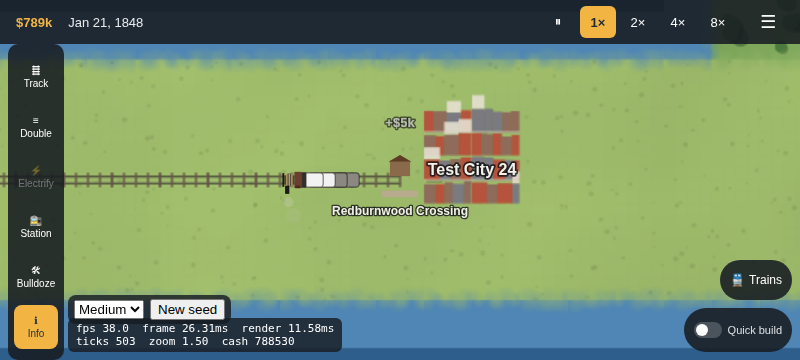
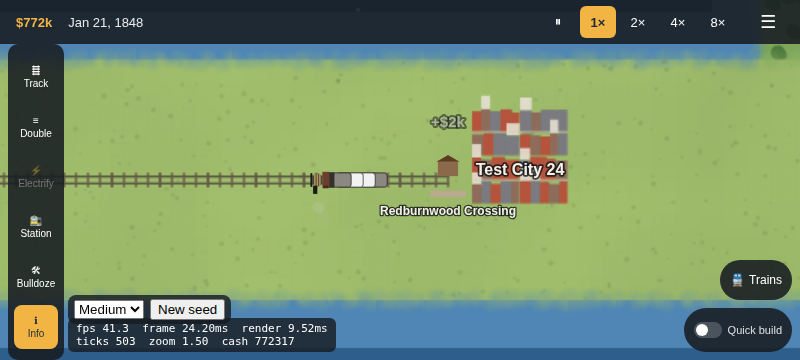
Phase 7.1: panel layout and delivery label fixes
Panel layout (index.html): `.panel` was the only scroll container, with `.panel-header` and
`.panel-actions` faking "pinned" via position:sticky. Sticky doesn't remove an element from the
document, so scrolled-past body rows could paint through/over the "pinned" header — confirmed
via the finance panel's "Credit limit" row landing on top of the "Finance" title after
scrollIntoView (docs/screenshots/phase-7-finance-panel.png). Fixed by making `.panel` a real flex
column: header and footer sit outside any scrollport, and only `.panel-body`
(flex:1, min-height:0, its own overflow-y) scrolls.

That surfaced a second, previously-latent bug: a flex item with non-visible overflow (e.g.
`.train-car-picker`'s own overflow-y:auto) has an automatic minimum size of 0 per the flexbox
spec, so once `.panel-body` became height-constrained, the browser shrank the car/loco/order
pickers to 0px to fit everything else — they were still "visible", just invisible. Fixed with a
blanket `.panel-body > * { flex-shrink: 0; }`.

Updated the two e2e specs that scrolled `.panel` directly (`el.scrollTop = ...`) for screenshot
framing to scroll `.panel-body` instead, since `.panel` itself no longer scrolls. Also bumped the
yearly report test's post-open wait from 100ms to 300ms — it was catching the panel mid-slide
(the 0.2s CSS transition), so ledger row values near the panel's right edge rendered off the
800px viewport in the screenshot; a real timing bug in the test, not the panel.
[…]

diff --git a/index.html b/index.html
@@ -152,12 +152,24 @@
         box-shadow: -4px 0 16px rgba(0, 0, 0, 0.35);
         transform: translateX(100%);
         transition: transform 0.2s ease;
-        overflow-y: auto;
         font: 13px sans-serif;
         /* Above the quick-build toggle (z-index 6), which otherwise floats over a panel's own
            bottom-right content (e.g. Station mode's in-panel Build/Cancel row) on a short
            viewport where the panel's content reaches near the screen bottom. */
         z-index: 10;
+        /* Fixed header + pinned footer, scrolling body (Phase 7.1 review fix): `.panel` is a flex
+           column so `.panel-header` and `.panel-actions` sit at their natural size outside any
+           scrollport, and only `.panel-body` (flex:1, min-height:0, its own overflow-y below)
+           scrolls. Previously `.panel` itself was the *only* scroll container and the header used
+           `position:sticky` to fake staying put — sticky doesn't remove an element from the
+           document, so scrolled-past body rows could still paint through/over the "pinned" header
+           (confirmed: e.g. the finance panel's "Credit limit" row landing visually on top of the
+           "Finance" title after `scrollIntoView`, docs/screenshots/phase-7-finance-panel.png).
+           Giving the header its own non-scrolling box makes that overlap structurally impossible
+           instead of relying on stacking order. */
+        display: flex;
+        flex-direction: column;
+        overflow: hidden;
       }
       .panel.panel-open {
         transform: translateX(0);
@@ -168,9 +180,8 @@
         justify-content: space-between;
         padding: 12px 14px;
         border-bottom: 1px solid rgba(255, 255, 255, 0.12);
-        position: sticky;
-        top: 0;
         background: inherit;
+        flex: 0 0 auto;
       }
       .panel-title {
         font-size: 16px;
@@ -186,16 +197,32 @@
         font-size: 14px;
       }
       .panel-body {
-        /* Extra bottom padding reserves room so the sticky `.panel-actions` bar (below) never
-           visually overlaps the last row(s) of content — sticky positioning clamps the bar to the
-           scrollport bottom even when total content is only barely taller than the panel, which
-           without this buffer could otherwise render the bar on top of the preceding row instead
-           of below it. 66px = .panel-actions' own rendered height (10px+12px padding + the 44px
-           button row) — keep this and its `margin-bottom` below in sync if that ever changes. */
+        /* The panel's only scrolling region now (see `.panel` above) — `flex:1` fills whatever
+           space `.panel-header`/`.panel-actions` don't take, `min-height:0` lets it actually
+           shrink below its content's natural height instead of overflowing the flex column. */
+        flex: 1 1 auto;
+        min-height: 0;
+        overflow-y: auto;
+        /* Extra bottom padding reserves room so the sticky `.panel-actions` bar (below, still
+           nested inside `.panel-body` by every caller) never visually overlaps the last row(s) of
+           content — sticky positioning clamps the bar to *this* scrollport's bottom even when
+           total content is only barely taller than the panel. 66px = .panel-actions' own rendered
+           height (10px+12px padding + the 44px button row) — keep this and its `margin-bottom`
+           below in sync if that ever changes. */
         padding: 12px 14px 66px;
         display: flex;
         flex-direction: column;
         gap: 10px;
+      }
+      /* Flexbox footgun: a flex item with non-visible overflow (e.g. `.train-car-picker`'s own
+         `overflow-y:auto`) has an *automatic minimum size of 0* per the flexbox spec, so once
+         `.panel-body` became height-constrained (above) instead of growing to fit its content, the
+         browser shrank such children all the way to 0 height to make everything else fit — every
+         car/loco/order chip picker silently disappeared (still "visible", just 0px tall) instead of
+         `.panel-body` scrolling like it's supposed to. `.panel-body`'s children should never shrink
+         below their natural/capped size; overflow is `.panel-body`'s own job. */
+      .panel-body > * {
+        flex-shrink: 0;
       }
       .panel-row {
         display: flex;
@@ -259,11 +286,12 @@
       .panel-actions {
         display: flex;
         gap: 8px;
-        /* Pinned to the bottom of the panel's own scroll area (same sticky trick `.panel-header`
-           uses at the top) so the confirm/build/sell button is always reachable on a short
-           viewport instead of requiring a scroll past the rest of the panel body (Phase 5 review
-           carry-over: the New Station panel's Build button could get cut off at 800×360). The
-           negative margins reclaim `.panel-body`'s own padding so the bar spans edge-to-edge. */
+        /* Pinned to the bottom of `.panel-body`'s own scroll area (it's nested inside `.panel-body`
+           by every caller, as the last item of the body list) so the confirm/build/sell button is
+           always reachable on a short viewport instead of requiring a scroll past the rest of the
+           panel body (Phase 5 review carry-over: the New Station panel's Build button could get
+           cut off at 800×360). The negative margins reclaim `.panel-body`'s own padding so the bar
+           spans edge-to-edge. */
         position: sticky;
         bottom: 0;
         margin: 8px -14px -66px;

diff --git a/e2e/economy.spec.ts b/e2e/economy.spec.ts
@@ -194,8 +194,10 @@ test.describe("Phase 7 — cargo flow and economy", () => {
     await page.waitForTimeout(300);
     await expect(page.locator(".cargo-bar-row")).toHaveCount(1);
     await expect(page.locator(".cargo-bar-label")).toHaveText("Coal");
-    // Waiting cargo is the panel's last section — scroll down so it's actually in frame.
-    await page.locator(".panel").evaluate((el) => {
+    // Waiting cargo is the panel's last section — scroll down so it's actually in frame. Only
+    // `.panel-body` scrolls (Phase 7.1: `.panel` itself became a plain flex column with a fixed
+    // header/footer around it, see index.html).
+    await page.locator(".panel-body").evaluate((el) => {
       el.scrollTop = el.scrollHeight;
     });
     await page.waitForTimeout(50);
@@ -257,7 +259,14 @@ test.describe("Phase 7 — cargo flow and economy", () => {
     await buildLineWithStations(page, 70, 80, ROW_Y);
 
     await page.evaluate(() => window.__game!.runDays(360)); // exactly one year
-    await page.waitForTimeout(100);
+    // 300ms, not 100ms: the panel slides in over a 0.2s CSS transition (`.panel`'s
+    // `transition: transform 0.2s ease` in index.html) — 100ms wasn't enough to let it finish
+    // sliding fully into view, so the screenshot below used to catch it mid-slide, still
+    // partially off the right edge of the 800px viewport (Phase 7.1 review: caught while
+    // checking every panel screenshot at 800×360 — the ledger row *values*, right-aligned near
+    // the panel's own right edge, were rendering past x=800 and invisible in the screenshot,
+    // while the labels near the left edge of the panel were still on-screen).
+    await page.waitForTimeout(300);
 
     await expect(page.locator(".panel-title")).toHaveText("1848 Year in Review");
     await expect(page.locator(".yearly-report-headline")).toBeVisible();

diff --git a/src/render/deliveryLabels.ts b/src/render/deliveryLabels.ts
@@ -21,6 +21,18 @@ export function isLabelExpired(label: FloatingLabel, nowMs: number): boolean {
   return nowMs - label.startMs > DURATION_MS;
 }
 
+/** Phase 7.1 review: dark cargo colors (coal `#2A2A2A`, wood, ...) as label fill, over a dark
+ * stroke halo, was unreadable against almost any terrain (docs/screenshots/phase-7-delivery-
+ * label.png). Cargo colors light enough to read on their own stay cargo-colored (still useful for
+ * "what got delivered" at a glance); anything darker falls back to bold white. */
+function labelFillColor(cargoColor: string): string {
+  const r = parseInt(cargoColor.slice(1, 3), 16);
+  const g = parseInt(cargoColor.slice(3, 5), 16);
+  const b = parseInt(cargoColor.slice(5, 7), 16);
+  const luminance = (0.299 * r + 0.587 * g + 0.114 * b) / 255;
+  return luminance < 0.45 ? "#FFFFFF" : cargoColor;
+}
+
 export function drawDeliveryLabels(
   ctx: CanvasRenderingContext2D,
   camera: Camera,
@@ -46,13 +58,13 @@ export function drawDeliveryLabels(
 
     ctx.save();
     ctx.globalAlpha = 1 - t;
-    ctx.font = "700 13px sans-serif";
+    ctx.font = "700 15px sans-serif";
     ctx.textAlign = "center";
     ctx.textBaseline = "bottom";
-    ctx.lineWidth = 3;
-    ctx.strokeStyle = "rgba(10, 10, 10, 0.65)";
+    ctx.lineWidth = 4;
+    ctx.strokeStyle = "rgba(0, 0, 0, 0.85)";
     ctx.strokeText(label.text, screen.x, y);
-    ctx.fillStyle = label.color;
+    ctx.fillStyle = labelFillColor(label.color);
     ctx.fillText(label.text, screen.x, y);
     ctx.restore();
   }

diff --git a/e2e/trains.spec.ts b/e2e/trains.spec.ts
@@ -258,8 +258,9 @@ test.describe("Phase 6 — Trains", () => {
     await expect(page.locator(".train-order-row")).toHaveCount(2);
     await expect(page.locator(".panel-action-build")).toBeEnabled();
     // Clicking the Coal car button auto-scrolled the panel to bring it into view; scroll back to
-    // the top so the screenshot shows the locomotive picker too, not just the lower half.
-    await page.locator(".panel").evaluate((el) => {
+    // the top so the screenshot shows the locomotive picker too, not just the lower half. Only
+    // `.panel-body` scrolls (Phase 7.1: see index.html).
+    await page.locator(".panel-body").evaluate((el) => {
       el.scrollTop = 0;
     });
     await page.waitForTimeout(50);
@@ -278,8 +279,9 @@ test.describe("Phase 6 — Trains", () => {
     await page.waitForTimeout(300);
     await expect(page.locator(".panel-title")).toHaveText(trains[0]!.name);
     // Scroll to the bottom so the screenshot shows the full orders list above the pinned Sell
-    // button (this panel's content is slightly taller than the 800×360 viewport).
-    await page.locator(".panel").evaluate((el) => {
+    // button (this panel's content is slightly taller than the 800×360 viewport). Only
+    // `.panel-body` scrolls (Phase 7.1: see index.html).
+    await page.locator(".panel-body").evaluate((el) => {
       el.scrollTop = el.scrollHeight;
     });
     await page.waitForTimeout(50);
